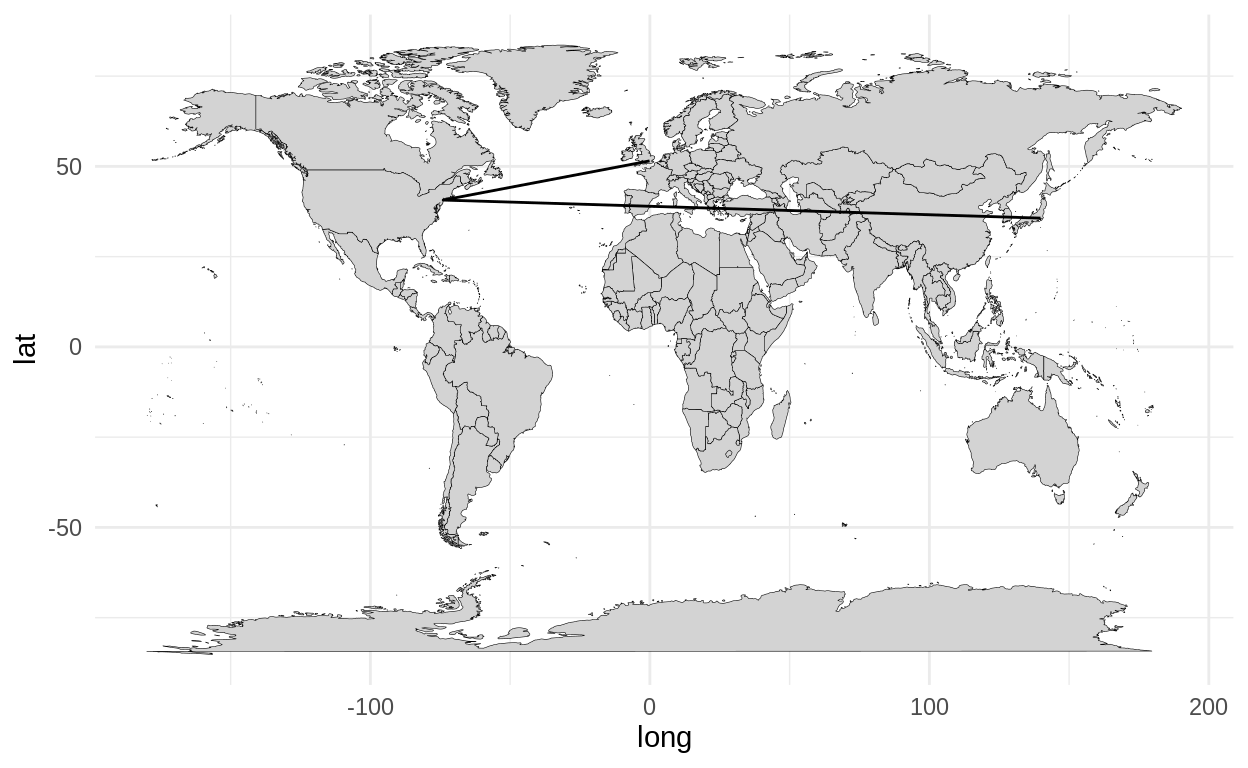
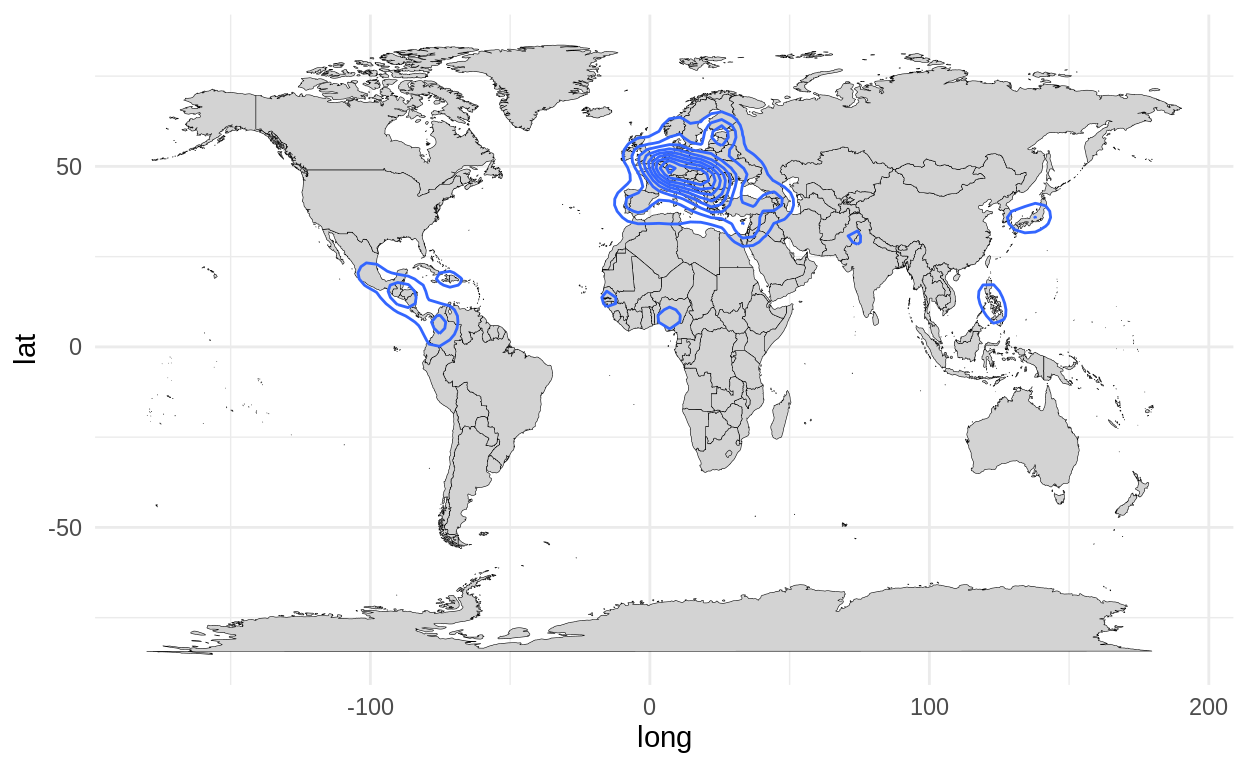
modify note on map

diff --git a/notes/posts/2019-11-29-map/index.html b/notes/posts/2019-11-29-map/index.html
@@ -60,7 +60,7 @@
 <!--/radix_placeholder_rmarkdown_metadata-->
   
   <script type="text/json" id="radix-resource-manifest">
-  {"type":"character","attributes":{},"value":["data/airlines.dat","data/airports.dat","data/bst2019.txt","data/routes.dat","map_files/bowser-1.9.3/bowser.min.js","map_files/distill-2.2.21/template.v2.js","map_files/figure-html5/unnamed-chunk-12-1.png","map_files/figure-html5/unnamed-chunk-13-1.png","map_files/figure-html5/unnamed-chunk-14-1.png","map_files/figure-html5/unnamed-chunk-15-1.png","map_files/figure-html5/unnamed-chunk-16-1.png","map_files/figure-html5/unnamed-chunk-17-1.png","map_files/figure-html5/unnamed-chunk-18-1.png","map_files/figure-html5/unnamed-chunk-21-1.png","map_files/figure-html5/unnamed-chunk-4-1.png","map_files/figure-html5/unnamed-chunk-5-1.png","map_files/figure-html5/unnamed-chunk-9-1.png","map_files/jquery-1.11.3/jquery.min.js","map_files/webcomponents-2.0.0/webcomponents.js"]}
+  {"type":"character","attributes":{},"value":["data/airlines.dat","data/airports.dat","data/bst2019.txt","data/routes.dat","map_files/bowser-1.9.3/bowser.min.js","map_files/distill-2.2.21/template.v2.js","map_files/figure-html5/unnamed-chunk-12-1.png","map_files/figure-html5/unnamed-chunk-13-1.png","map_files/figure-html5/unnamed-chunk-14-1.png","map_files/figure-html5/unnamed-chunk-15-1.png","map_files/figure-html5/unnamed-chunk-16-1.png","map_files/figure-html5/unnamed-chunk-17-1.png","map_files/figure-html5/unnamed-chunk-18-1.png","map_files/figure-html5/unnamed-chunk-19-1.png","map_files/figure-html5/unnamed-chunk-20-1.png","map_files/figure-html5/unnamed-chunk-21-1.png","map_files/figure-html5/unnamed-chunk-23-1.png","map_files/figure-html5/unnamed-chunk-4-1.png","map_files/figure-html5/unnamed-chunk-5-1.png","map_files/figure-html5/unnamed-chunk-9-1.png","map_files/jquery-1.11.3/jquery.min.js","map_files/webcomponents-2.0.0/webcomponents.js"]}
   </script>
   <!--radix_placeholder_navigation_in_header-->
 
@@ -1350,14 +1350,14 @@ gtag('config', 'UA-75879658-3');
 <pre class="r"><code>
 library(tidyverse)</code></pre>
 <pre><code>
-── Attaching packages ─────────────────────────────────────────────────────────── tidyverse 1.3.0 ──</code></pre>
+── Attaching packages ───────────────────────────────────────────────────────────── tidyverse 1.3.0 ──</code></pre>
 <pre><code>
 ✔ ggplot2 3.2.1     ✔ purrr   0.3.3
 ✔ tibble  2.1.3     ✔ dplyr   0.8.3
 ✔ tidyr   1.0.0     ✔ stringr 1.4.0
 ✔ readr   1.3.1     ✔ forcats 0.4.0</code></pre>
 <pre><code>
-── Conflicts ────────────────────────────────────────────────────────────── tidyverse_conflicts() ──
+── Conflicts ──────────────────────────────────────────────────────────────── tidyverse_conflicts() ──
 ✖ dplyr::filter() masks stats::filter()
 ✖ dplyr::lag()    masks stats::lag()</code></pre>
 <pre class="r"><code>
@@ -1519,9 +1519,9 @@ left_join(world, pop2013, by = &quot;region&quot;) %&gt;%
                colour = &quot;black&quot;, size = 0.1)</code></pre>
 <p><img src="map_files/figure-html5/unnamed-chunk-12-1.png" width="624" /></p>
 </div>
-<ul>
-<li>必ずしも両方のデータセットで国名が一致していないので、いくつか欠損していますが、ご容赦下さい。</li>
-</ul>
+<aside>
+必ずしも両方のデータセットで国名が一致していないので、いくつか欠損していますが、ご容赦下さい。
+</aside>
 <p><code>geom_sf()</code>でも同じです。</p>
 <div class="layout-chunk" data-layout="l-body">
 <pre class="r"><code>
@@ -1545,7 +1545,7 @@ world %&gt;%
 <ul>
 <li>ただし、地図データとは別のデータセットのはずなので、別途指定する必要があります。</li>
 </ul>
-<p><code>geom_sf()</code>の場合も同様です。</p>
+<p><code>geom_sf()</code>の場合も同様にできます。</p>
 <div class="layout-chunk" data-layout="l-body">
 <pre class="r"><code>
 kyoto %&gt;% 
@@ -1554,6 +1554,31 @@ kyoto %&gt;%
   geom_point(aes(x = capital_longitude, y = capital_latitude),
              colour = &quot;red&quot;, data = jpnprefs %&gt;% filter(prefecture == &quot;京都府&quot;))</code></pre>
 <p><img src="map_files/figure-html5/unnamed-chunk-15-1.png" width="624" /></p>
+</div>
+<p>また、<code>geom_density_2d()</code>で2次元の分布を描くこともできます。 試しに、都市の分布を示します。</p>
+<div class="layout-chunk" data-layout="l-body">
+<pre class="r"><code>
+world %&gt;% 
+  ggplot() + 
+  geom_polygon(aes(x = long, y = lat, group = group),
+               fill = &quot;lightgray&quot;, colour = &quot;black&quot;, size = 0.1) + 
+  geom_density_2d(aes(x = long, y = lat),
+                  data = world.cities)</code></pre>
+<p><img src="map_files/figure-html5/unnamed-chunk-16-1.png" width="624" /></p>
+</div>
+<ul>
+<li>一般的には、<code>geom_contour()</code>で等高線を描くことができます。</li>
+</ul>
+<p>色をつけることもできます。</p>
+<div class="layout-chunk" data-layout="l-body">
+<pre class="r"><code>
+world %&gt;% 
+  ggplot() + 
+  geom_polygon(aes(x = long, y = lat, group = group),
+               fill = &quot;lightgray&quot;, colour = &quot;black&quot;, size = 0.1) +
+  stat_density2d(aes(x = long, y = lat, fill = stat(level)), 
+                 geom = &quot;polygon&quot;, alpha = 0.5) </code></pre>
+<p><img src="map_files/figure-html5/unnamed-chunk-17-1.png" width="624" /></p>
 </div>
 <h2 id="Path">データの繋がりを見る</h2>
 <h3 id="二点間の繋がりを見る">二点間の繋がりを見る</h3>
@@ -1635,7 +1660,7 @@ world %&gt;%
   geom_segment(aes(x = source_long, y = source_lat, xend = dest_long, yend = dest_lat),
                size = 0.1, alpha = 0.1, 
                data = df_flight)</code></pre>
-<p><img src="map_files/figure-html5/unnamed-chunk-17-1.png" width="624" /></p>
+<p><img src="map_files/figure-html5/unnamed-chunk-19-1.png" width="624" /></p>
 </div>
 <ul>
 <li>太平洋を横断する路線も西回りになってしまうのは課題です……</li>
@@ -1650,7 +1675,7 @@ world %&gt;%
   geom_curve(aes(x = source_long, y = source_lat, xend = dest_long, yend = dest_lat),
                size = 0.1, alpha = 0.1, 
                data = df_flight)</code></pre>
-<p><img src="map_files/figure-html5/unnamed-chunk-18-1.png" width="624" /></p>
+<p><img src="map_files/figure-html5/unnamed-chunk-20-1.png" width="624" /></p>
 </div>
 <h3 id="経路を見る">経路を見る</h3>
 <p>二点間を繋ぐのではなく、一連の経路を描きたい場合は、この方法では非効率的です。 例として、2019年の台風の経路をプロットするために、デジタル台風のサイト（<a href="http://agora.ex.nii.ac.jp/digital-typhoon/summary/wnp/l/201928.html.ja">例</a>）からデータを収集します。</p>
@@ -1706,7 +1731,7 @@ world %&gt;%
                fill = &quot;lightgray&quot;, colour = &quot;black&quot;, size = 0.1) + 
   geom_path(aes(x = long, y = lat, colour = hpa, group = id),
             data = df_typhoon)</code></pre>
-<p><img src="map_files/figure-html5/unnamed-chunk-21-1.png" width="624" /></p>
+<p><img src="map_files/figure-html5/unnamed-chunk-23-1.png" width="624" /></p>
 </div>
 <ul>
 <li>複数の経路がある場合は<code>group</code>で指定するのを忘れずに。</li>
